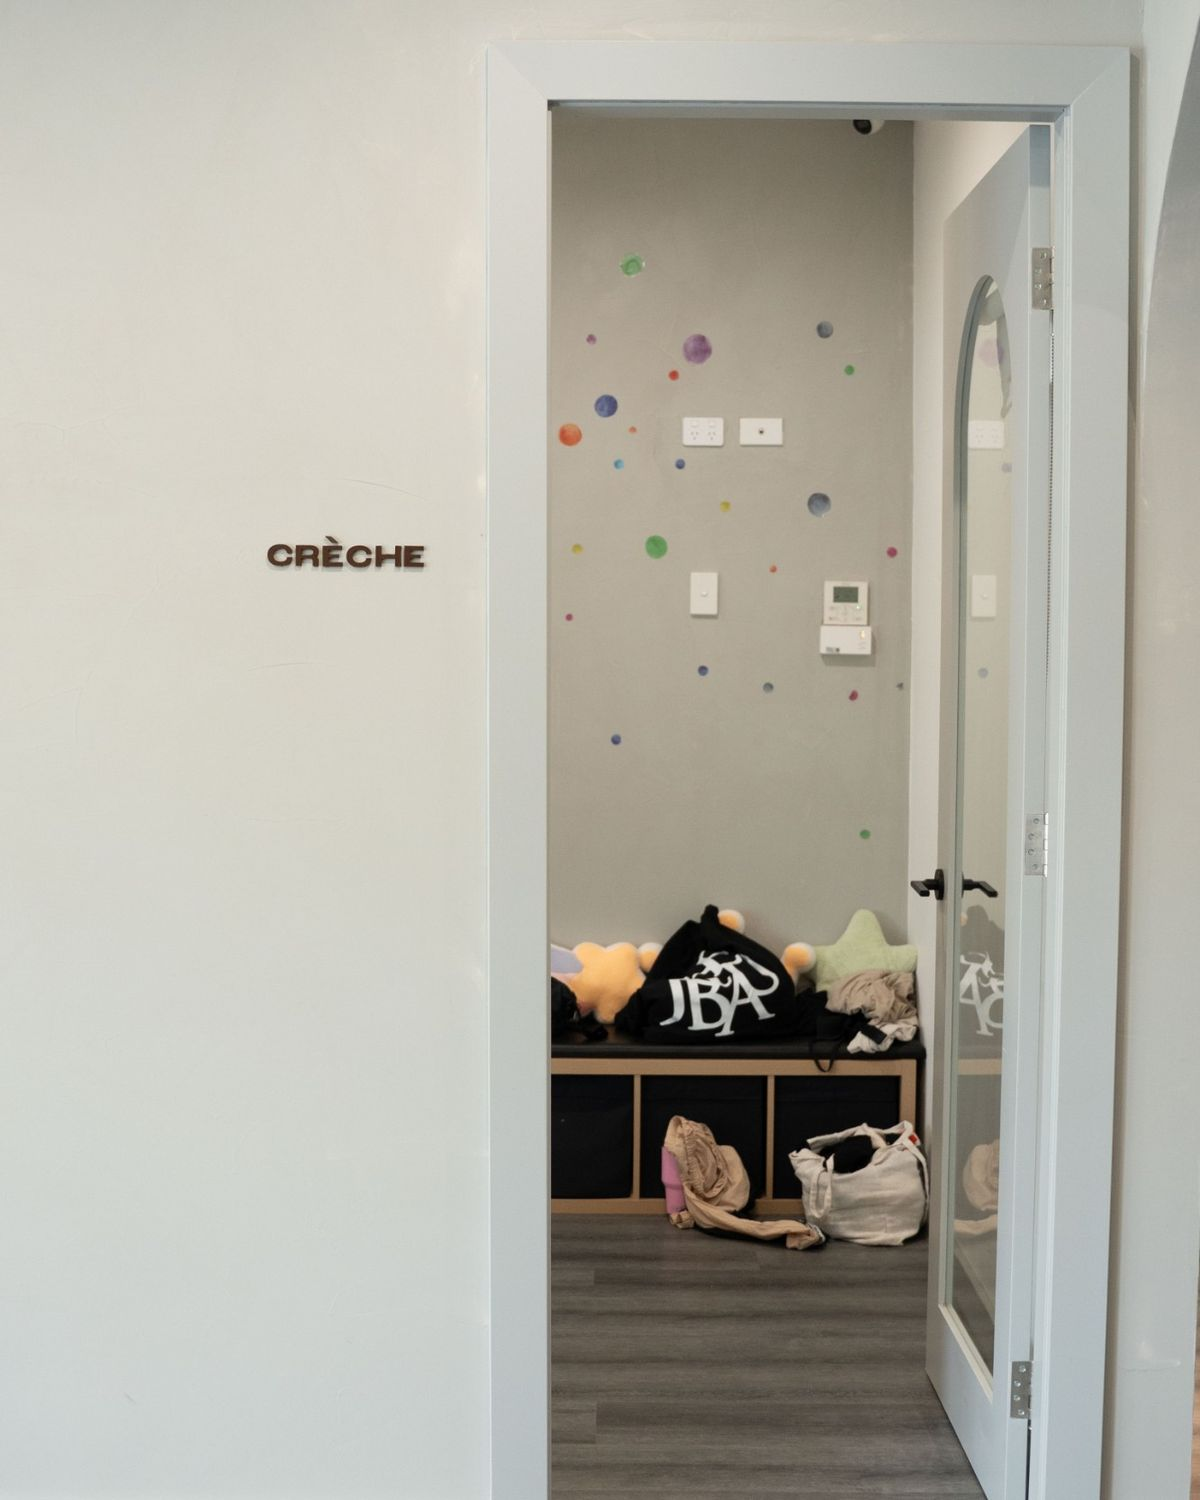
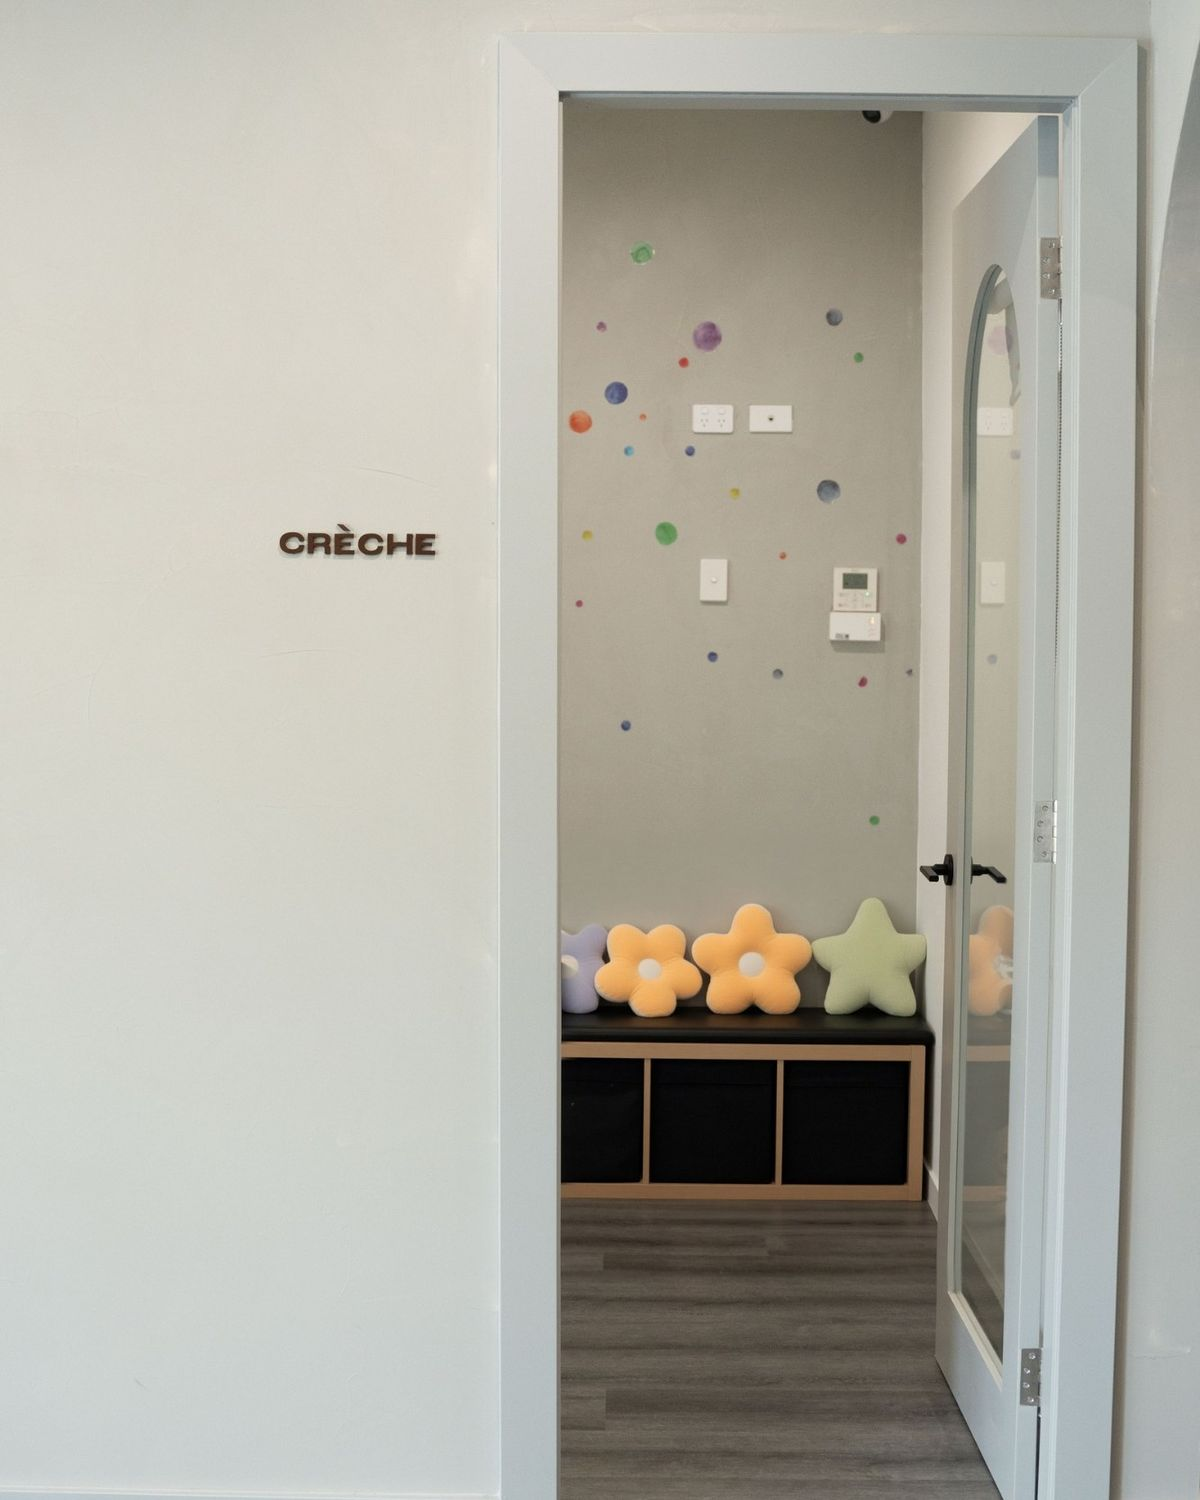
Creche card: tidied creche room photo
Owner-supplied cleaned-up photo (bags and clothes removed) replaces the
earlier creche shot. Cropped 4:5, 99 KB, EXIF stripped; alt text updated.

Claude-Session: https://claude.ai/code/session_0114xewnrKXvPCXMfPfFnb1B

diff --git a/components/sections/more-ways.tsx b/components/sections/more-ways.tsx
@@ -12,7 +12,7 @@ const ITEMS = [
     title: "Bring the kids.",
     body: `Creche at both studios, ${CRECHE.days} at ${CRECHE.times.join(" and ")}. Free with an ${CRECHE.freeWith} membership, ${CRECHE.price} a session otherwise.`,
     photo: "/images/studios/creche-room.jpg",
-    alt: "The creche room at Reformd Pilates, with toys and a colourful spotted wall",
+    alt: "The creche room at Reformd Pilates, with soft flower and star cushions and a colourful spotted wall",
   },
   {
     href: "/private-sessions",

diff --git a/LAUNCH.md b/LAUNCH.md
@@ -10,7 +10,7 @@ Everything here happens at or just before the switch from Squarespace. Until ste
 - [ ] Kings Park Lite contract code (`lib/constants.ts`, `contractIds`).
 - [ ] Photos, rights: written confirmation that Big Creativa's edits and the 19 Jan shoot are licensed for website use, and that every recognisable member/instructor has consented.
 - [x] Photos, Cecil Hills: wide studio image is DSC05704.jpg (owner-picked, 8 Nov), cropped to remove a delivery box. It predates opening (shelves empty); swap for a current wide shot when one exists.
-- [ ] Photos, gaps: Ignite jumpboard shot (current image is a lunge placeholder); creche playroom shot added 19 Nov (owner photo); swap for a tidier shot if the bags in the doorway bother you.
+- [ ] Photos, gaps: Ignite jumpboard shot (current image is a lunge placeholder); creche playroom shot added 19 Nov (owner photo, tidied).
 - [ ] Photos, Kings Park wide in session: IMG_2117 (10 Feb shoot) is over the 10 MB Drive transfer limit; export it at about 3 MB if wanted.
 
 ## 2. Transactions (test with a real, approved customer account)
